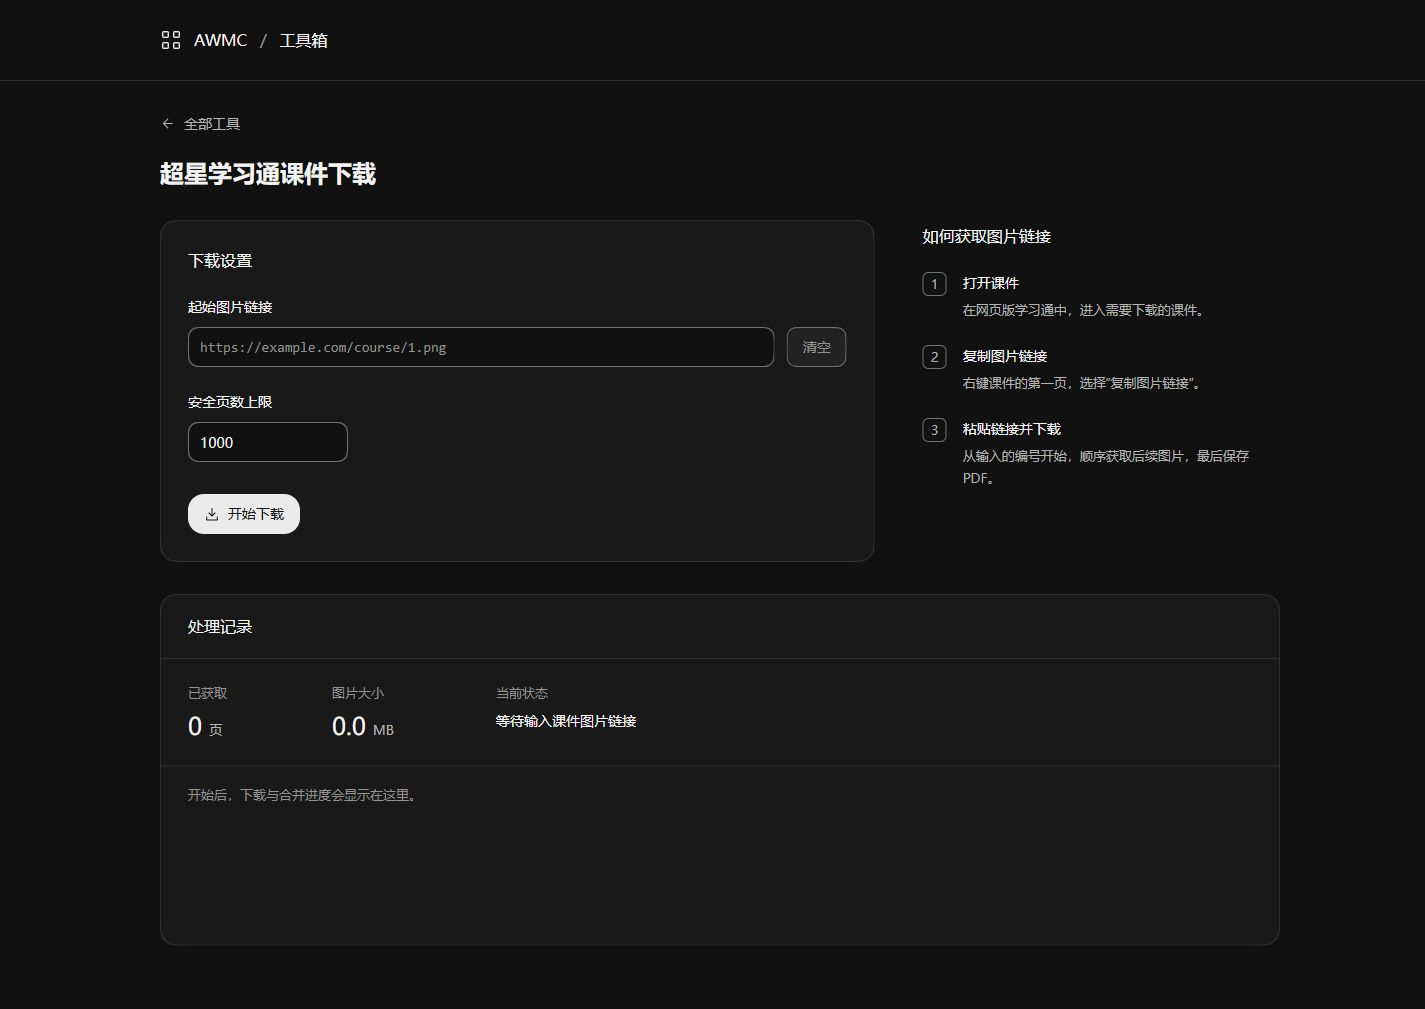
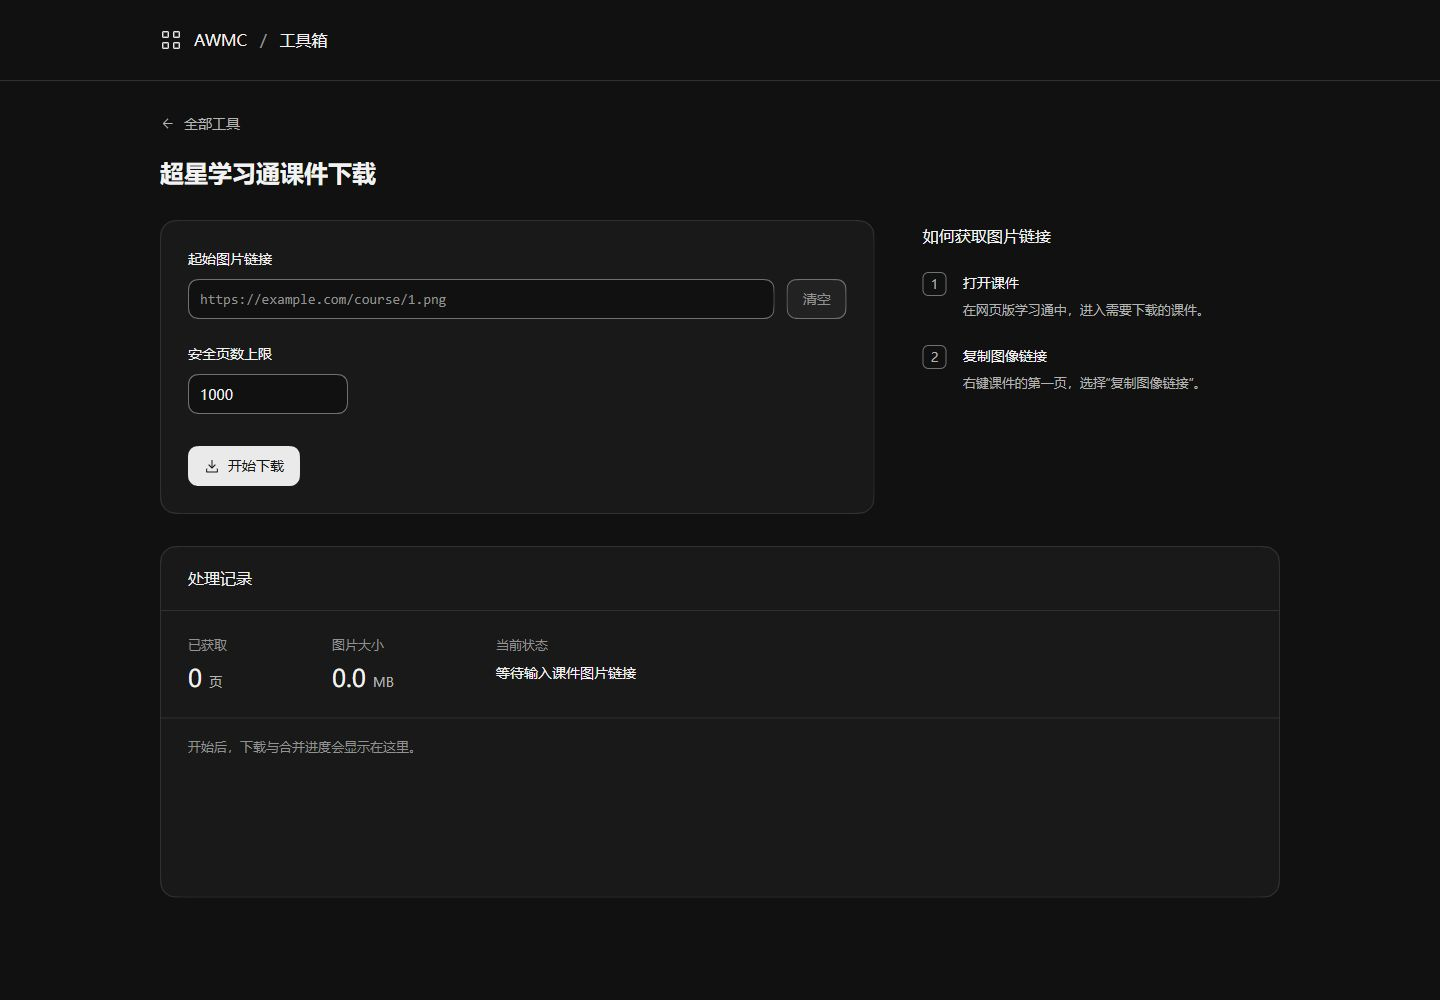
优化布局

diff --git a/src/tools/chaoxing/page.js b/src/tools/chaoxing/page.js
@@ -8,7 +8,6 @@ export function mount(main, tool) {
     <h1 class="tool-heading">${tool.name}</h1>
     <div class="workspace-layout">
       <section class="workspace smooth" data-radius="16" aria-label="下载设置">
-        <h2 class="section-heading">下载设置</h2>
         <form id="download-form" novalidate>
           <label for="source">起始图片链接</label>
           <div class="source-row">
@@ -36,8 +35,7 @@ export function mount(main, tool) {
         <h2>如何获取图片链接</h2>
         <ol>
           <li><span>1</span><div><h3>打开课件</h3><p>在网页版学习通中，进入需要下载的课件。</p></div></li>
-          <li><span>2</span><div><h3>复制图片链接</h3><p>右键课件的第一页，选择“复制图片链接”。</p></div></li>
-          <li><span>3</span><div><h3>粘贴链接并下载</h3><p>从输入的编号开始，顺序获取后续图片，最后保存 PDF。</p></div></li>
+          <li><span>2</span><div><h3>复制图像链接</h3><p>右键课件的第一页，选择“复制图像链接”。</p></div></li>
         </ol>
       </aside>
     </div>

diff --git a/src/shared/smooth.js b/src/shared/smooth.js
@@ -5,9 +5,14 @@ export function observeSmoothCorners(root = document) {
     for (const { target } of entries) {
       const { width, height } = target.getBoundingClientRect();
       if (!width || !height) continue;
-      const radius = Number(target.dataset.radius || 10);
+      const radius = Number(target.dataset.radius ?? parseFloat(getComputedStyle(target).getPropertyValue('--radius')));
       const d = getSvgPath({ width, height, cornerRadius: radius, cornerSmoothing: 0.6 });
-      target.style.clipPath = `path('${d}')`;
+      const clipPath = `path('${d}')`;
+      if (CSS.supports('clip-path', clipPath)) {
+        target.style.clipPath = clipPath;
+        // Let the shared path shape the background, without a second circular crop.
+        target.style.borderRadius = '0';
+      }
       const svg = target.querySelector(':scope > .smooth-border');
       svg.setAttribute('viewBox', `0 0 ${width} ${height}`);
       svg.firstChild.setAttribute('d', d);

diff --git a/src/style.css b/src/style.css
@@ -25,6 +25,7 @@
   --space-8: 32px;
   --space-12: 48px;
   --control: 40px;
+  --control-radius: 10px;
   --radius: 10px;
   --motion: 150ms;
 }
@@ -75,6 +76,7 @@ p { color: var(--secondary); }
 main { width: min(1168px, 100%); padding: 48px 24px 64px; margin: 0 auto; }
 
 /* Shared form controls. */
+.button, .input-wrap, .search-field { --radius: var(--control-radius); }
 label { display: block; font-size: var(--text-control); font-weight: 500; margin-bottom: 10px; }
 .input-wrap { height: var(--control); background: var(--bg); --smooth-border: var(--border); }
 .input-wrap input { width: 100%; height: 100%; padding: 0 12px; background: none; border: 0; min-width: 0; font-size: var(--text-control); }

diff --git a/src/tools/chaoxing/style.css b/src/tools/chaoxing/style.css
@@ -5,7 +5,6 @@
 .tool-heading { margin-bottom: 32px; }
 .workspace-layout { display: grid; grid-template-columns: minmax(0, 2fr) minmax(260px, 1fr); gap: 48px; align-items: start; }
 .workspace { padding: 28px; background: var(--surface); --radius: 16px; }
-.section-heading { margin-bottom: 24px; }
 .source-row { display: flex; align-items: center; gap: 12px; }
 .source-row .input-wrap { flex: 1; min-width: 0; }
 .source-row .button { flex-shrink: 0; }
